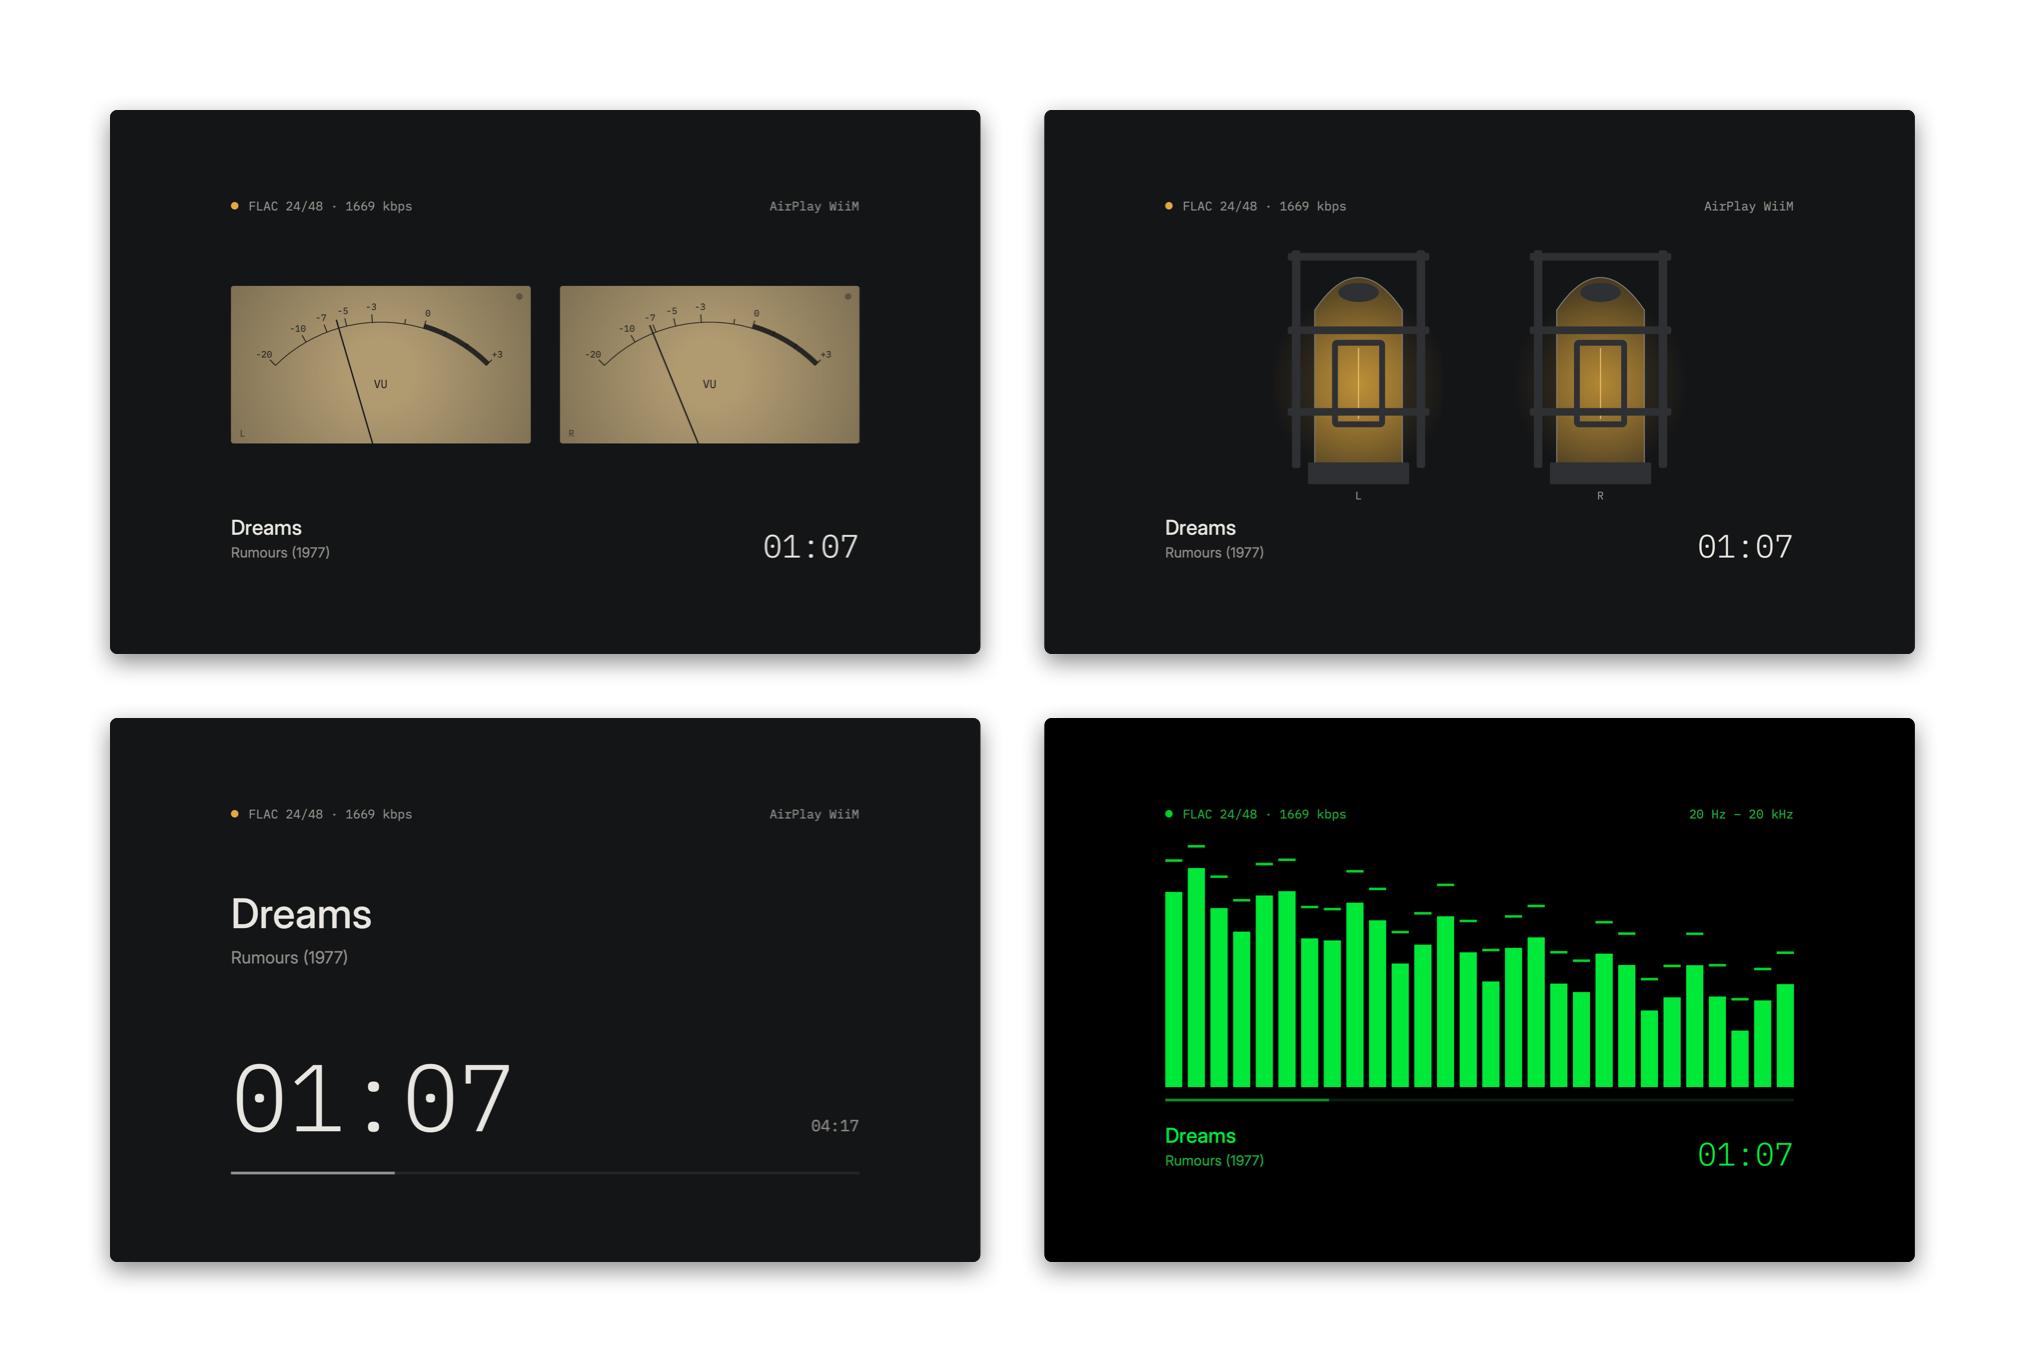
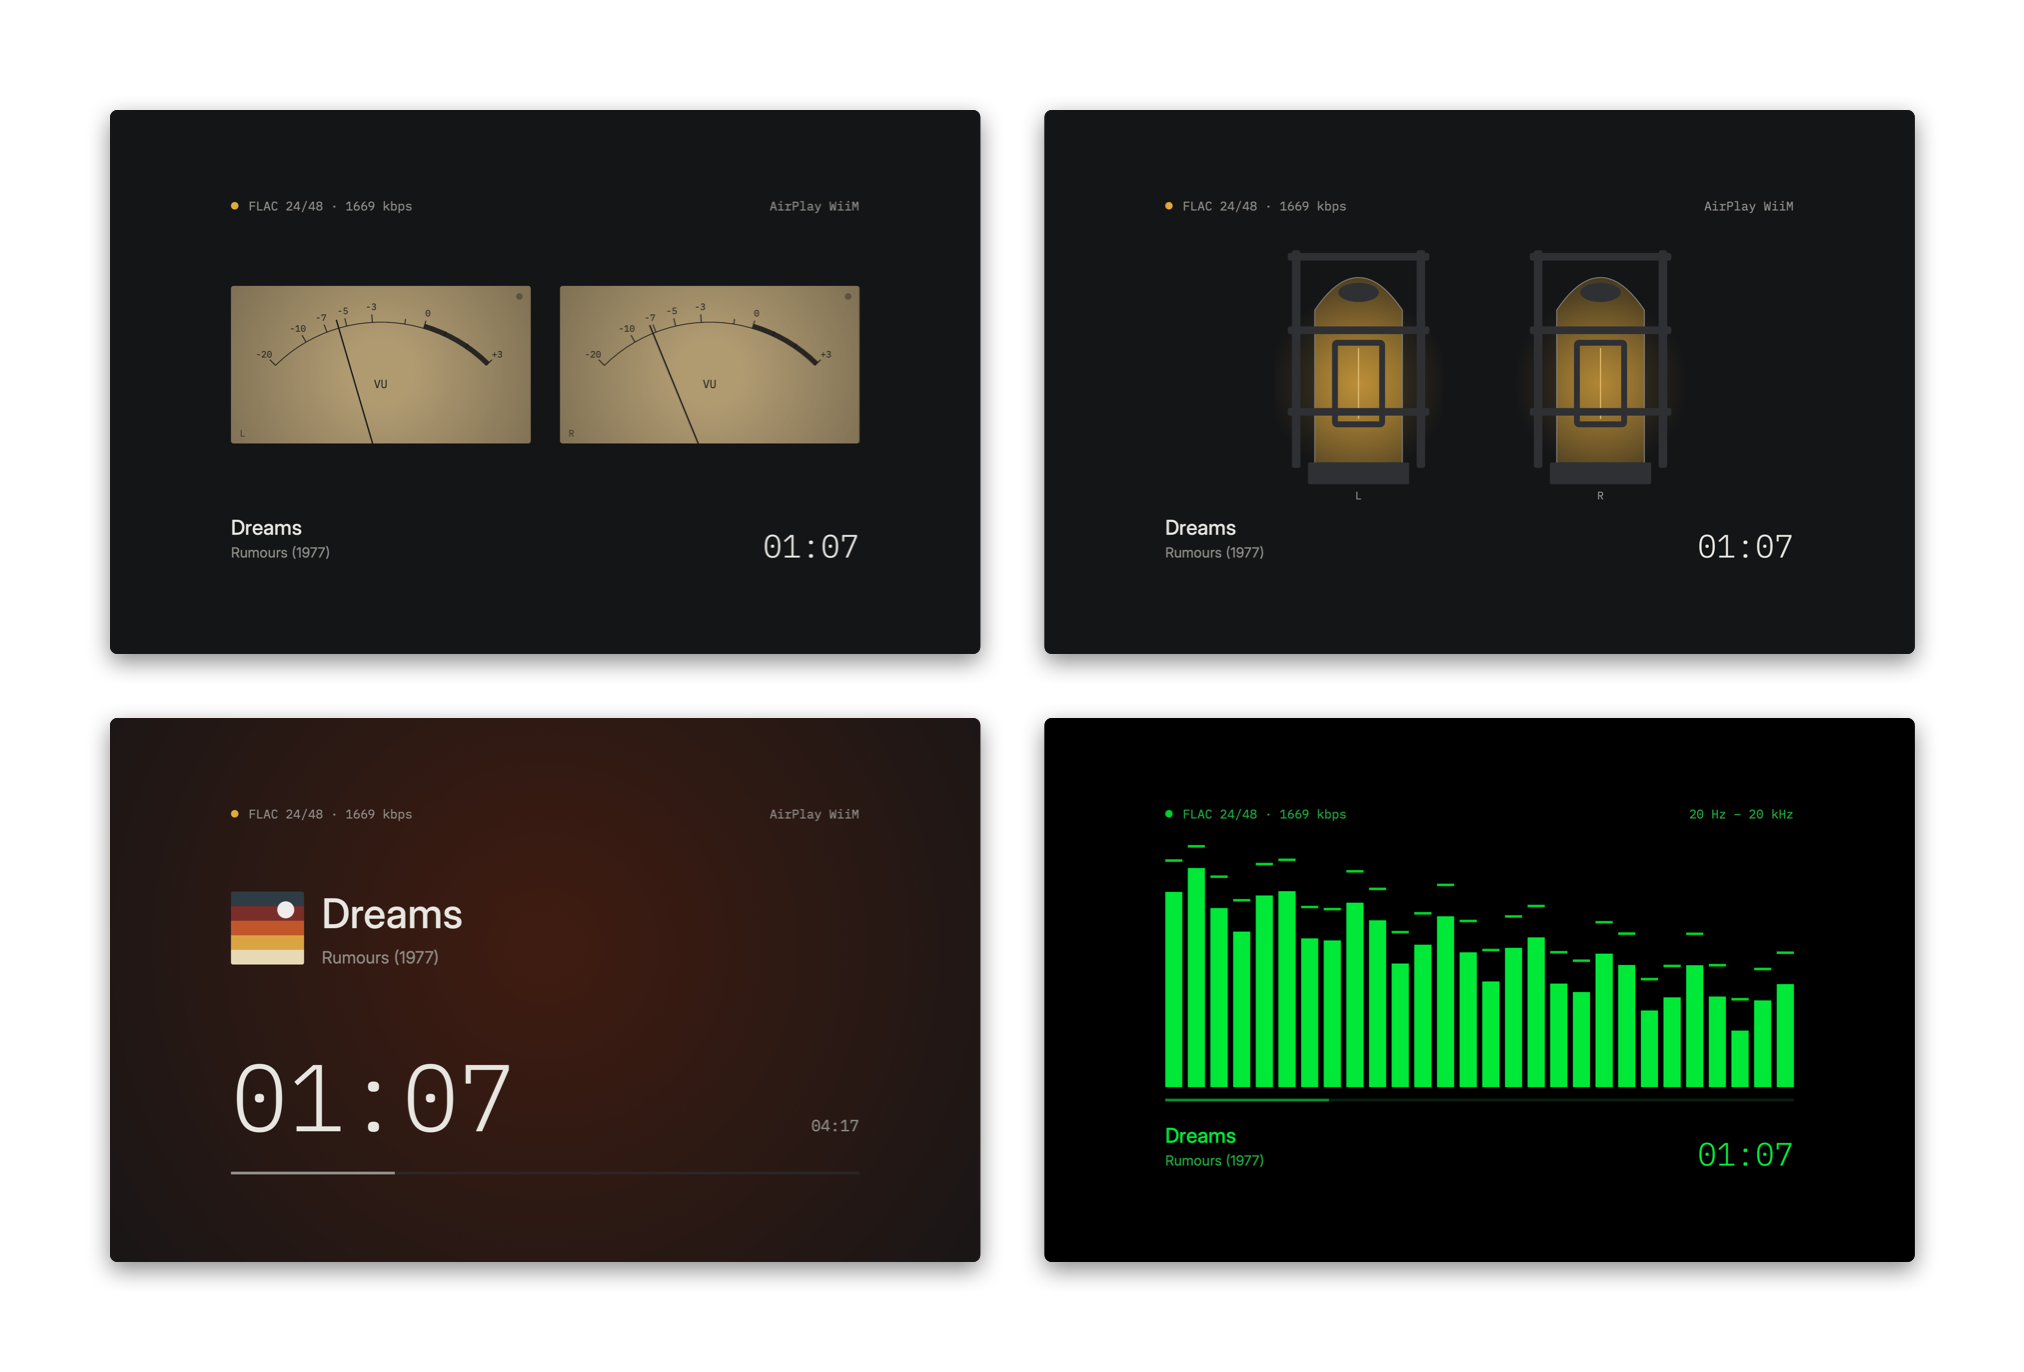
README: the cover glow in ambient mode (EN + PT)

Changed region(s): [[0.0934, 0.5204, 0.4046, 0.8878]]

diff --git a/scripts/make-readme-images.swift b/scripts/make-readme-images.swift
@@ -170,8 +170,8 @@ framed([(snapshot("player-graphite-orange"), .window(dark: true)), (snapshot("pl
 framed([(snapshot("player-capa-chumbo"), .window(dark: true)), (snapshot("barra-capa-aluminio"), .popover)],
        name: "artwork.png")
 
-// Ambient mode: four faces, two by two, as full screens (the last one in Phosphor).
-let faces = ["ponteiros-chumbo", "valvulas-chumbo", "ecra-chumbo", "espectro-phosphor"].map { snapshot("ambiente-\($0)") }
+// Ambient mode: four faces, two by two, as full screens (the third with a cover's glow, the last in Phosphor).
+let faces = ["ponteiros-chumbo", "valvulas-chumbo", "capa-chumbo", "espectro-phosphor"].map { snapshot("ambiente-\($0)") }
 let faceK = 0.34
 let face = framedSize(faces[0], .popover, k: faceK)
 let (facePad, faceGap) = (110.0, 64.0)

diff --git a/README.md b/README.md
@@ -62,7 +62,7 @@ The look above is the **Rams** skin. **Graphite Orange** and **Graphite Green** 
 
 ## Ambient mode, for the room
 
-<p align="center"><img src="docs/screenshots/ambient.png" width="760" alt="Ambient mode faces: VU meters with needles, glowing valves, the track and time large, and a 28-band spectrum in Phosphor"></p>
+<p align="center"><img src="docs/screenshots/ambient.png" width="760" alt="Ambient mode faces: VU meters with needles, glowing valves, the track and time large on a glow from the album cover, and a 28-band spectrum in Phosphor"></p>
 
 **View › Ambient** (⌘4) turns the whole screen into NuVa's display, in the current skin, to leave the music playing as part of the room. Six faces, ← → to switch:
 
@@ -73,7 +73,7 @@ The look above is the **Rams** skin. **Graphite Orange** and **Graphite Green** 
 - **Needles**: two backlit VU meters, like the front of a tape deck.
 - **Valves**: two valves in their cage, whose filaments glow with each channel.
 
-They all move with what you hear, AirPlay included. Esc or ⌘4 leaves. It can go on another screen or a TV (**View › Ambient Options**), and keeps the screen awake while music plays. **OLED Protection**, on by default, looks after OLED screens: the picture drifts slowly, static parts are dimmer, the face changes every 20 minutes, and after an hour untouched only a small light is left.
+They all move with what you hear, AirPlay included. With artwork on, the screen takes on the album's colour: a soft glow from the cover, behind the face. Esc or ⌘4 leaves. It can go on another screen or a TV (**View › Ambient Options**), and keeps the screen awake while music plays. **OLED Protection**, on by default, looks after OLED screens: the picture drifts slowly, static parts are dimmer, the face changes every 20 minutes, and after an hour untouched only a small light is left.
 
 ## Album artwork, if you want it
 
@@ -223,7 +223,7 @@ Toca FLAC pelo motor de áudio da própria Apple, envia o som para as tuas colun
 - **Jellyfin sem confusão.** Navega pelas pastas reais do servidor e toca os ficheiros originais.
 - **Uma janela pequena.** As pastas aparecem no lugar da fila (⌘B troca as duas) e há um modo compacto. A janela estica na vertical para veres o álbum inteiro, e na horizontal para nomes compridos.
 - **Skins:** Rams (claro ou escuro, como o sistema), Graphite Orange, Graphite Green e Fósforo (sempre escuras), em Visualização › Skin. Fonte Inter + IBM Plex Mono ou SF Pro + SF Mono, em Visualização › Fonte.
-- **Modo Ambiente** (⌘4): o ecrã inteiro passa a ser o mostrador da NuVa, na skin atual. Seis faces, ← → trocam: a faixa e o tempo em grande, um relógio, o espectro de 28 bandas, os medidores esquerdo e direito, dois VU de ponteiro e duas válvulas que acendem com cada canal. Esc sai. Pode ir para outro ecrã ou uma TV. Protege ecrãs OLED: a imagem desloca-se devagar, o que é fixo fica mais escuro, a face muda a cada 20 minutos e, ao fim de uma hora sem mexer, só fica uma pequena luz.
+- **Modo Ambiente** (⌘4): o ecrã inteiro passa a ser o mostrador da NuVa, na skin atual. Seis faces, ← → trocam: a faixa e o tempo em grande, um relógio, o espectro de 28 bandas, os medidores esquerdo e direito, dois VU de ponteiro e duas válvulas que acendem com cada canal. Com as capas ligadas, o ecrã ganha a cor do álbum, num brilho suave por trás. Esc sai. Pode ir para outro ecrã ou uma TV. Protege ecrãs OLED: a imagem desloca-se devagar, o que é fixo fica mais escuro, a face muda a cada 20 minutos e, ao fim de uma hora sem mexer, só fica uma pequena luz.
 - **Capas, se quiseres:** Visualização › Mostrar capas (⌥⌘A). Usa a imagem da pasta (`cover`, `folder`, `front`, `album` ou `capa`); se não houver, procura no MusicBrainz pelo nome das pastas. Nunca das tags. Capa errada ou em falta: carrega na capa e corrige o artista ou o álbum, ou escolhe uma imagem. Desligado por defeito.
 - **CDs áudio, como um leitor de CDs.** Mete um disco no leitor e a NuVa toca-o logo. Os nomes do álbum e das faixas vêm do MusicBrainz, pelo índice do disco (um CD não traz nomes). Ejetar com ⌘E. Para abrir a NuVa sempre que entra um CD: Definições do Sistema › CDs e DVDs › Ao inserir um CD de música › Abrir outra aplicação… › NuVa.
 - **Avisa quando há versão nova** (verifica no GitHub uma vez por dia, sem descarregar nada). [Termos e privacidade](TERMS.md) em NuVa › Termos e privacidade.
